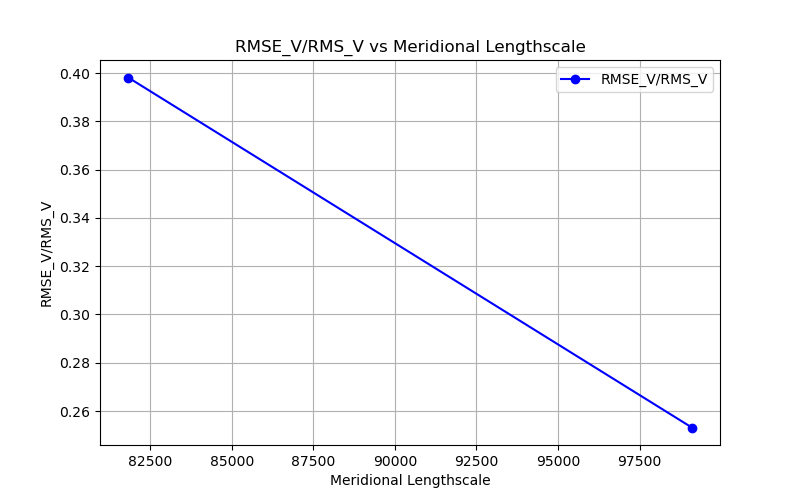
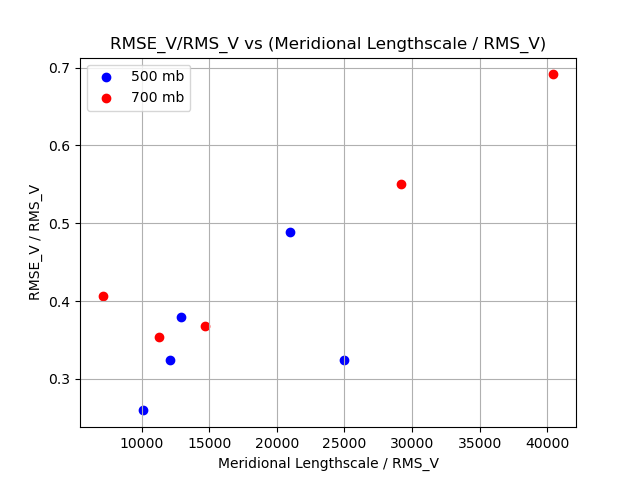
clean

diff --git a/hrrr/datas_post.py b/hrrr/datas_post.py
@@ -11,6 +11,7 @@ from tabulate import tabulate
 from main import tools
 from collections import defaultdict
 import matplotlib.pyplot as plt
+import torch
 
 pre_file_path = f'datas/datas_pre.pkl'
 fit_file_path = f'datas/datas_fit.pkl'
@@ -21,6 +22,8 @@ with open(fit_file_path, 'rb') as f:
 filtered_fit = [
     data for data in datas_fit if tools.rmse(data, scale=1/86400).item() <= 6
 ]
+
+
 date_levels = defaultdict(set)
 for data in filtered_fit:
     date_levels[data.date].add(data.level)
@@ -42,7 +45,7 @@ with open(pre_file_path, 'wb') as f:
     pickle.dump(filtered_pre, f)
 
 
-frames = [0,3,6]
+frames = [0]
 
 grouped_data = defaultdict(list)
 for data in filtered_fit:
@@ -66,8 +69,7 @@ for data in filtered_fit:
     level_dir = os.path.join(date_dir, str(data.level))
     os.makedirs(level_dir, exist_ok=True)
 
-    # Generate and save plots
-    '''for frame_num in frames:
+    for frame_num in frames:
         indices = torch.randperm(datas_pre[0].m)
         fig = data.plot_observations(indices, frame=frame_num)
         plot_path = os.path.join(level_dir, f"scalar_plot_frame_{frame_num}.png")
@@ -84,7 +86,7 @@ for data in filtered_fit:
         fig = data.plot_vel_data(indices, frame=frame_num, color="blue")
         plot_path = os.path.join(level_dir, f"true_plot_frame_{frame_num}.png")
         fig.savefig(plot_path)
-        plt.close(fig)'''
+        plt.close(fig)
 
 # Generate LaTeX table with grouped dates
 latex_table = "\\begin{table}[ht]\n\\centering\n\\begin{tabular}{llrrrrrrr}\n\\hline\n"
@@ -106,103 +108,67 @@ with open(f"results/table.txt", "w") as f:
     f.write(latex_table)
     
 
-temporal_lengthscales = []
-rmse_rrmse_ratios = []
+zonal_lengthscales_500 = []
+rmse_u_rms_ratios_500 = []
+zonal_lengthscales_700 = []
+rmse_u_rms_ratios_700 = []
 
 for date, rows in grouped_data.items():
     for row in rows:
-        temporal_lengthscale = row[2]  # Assuming `l_1` corresponds to the temporal lengthscale
-        rmse = row[7] 
-        rms = row[6]  
+        level = row[0]
+        zonal_lengthscale = row[3]
+        rms_u = row[8]
+        rmse_u = row[9]
+        if rms_u > 0:
+            ratio_u = rmse_u / rms_u
+            scaled_lengthscale = zonal_lengthscale / rms_u 
+            if level == "500 mb":
+                zonal_lengthscales_500.append(scaled_lengthscale)
+                rmse_u_rms_ratios_500.append(ratio_u)
+            elif level == "700 mb":
+                zonal_lengthscales_700.append(scaled_lengthscale)
+                rmse_u_rms_ratios_700.append(ratio_u)
 
-        if rms > 0:  # Avoid division by zero
-            ratio = rmse / rms
-            temporal_lengthscales.append(temporal_lengthscale)
-            rmse_rrmse_ratios.append(ratio)
-
-# Convert lists to numpy arrays
-temporal_lengthscales = np.array(temporal_lengthscales)
-rmse_rrmse_ratios = np.array(rmse_rrmse_ratios)
-
-# Sort values for a smooth plot
-sorted_indices = np.argsort(temporal_lengthscales)
-temporal_lengthscales = temporal_lengthscales[sorted_indices]
-rmse_rrmse_ratios = rmse_rrmse_ratios[sorted_indices]
-
-# Plot RMSE/RRMSE ratio vs Temporal Lengthscale
-plt.figure(figsize=(8, 5))
-plt.plot(temporal_lengthscales, rmse_rrmse_ratios, marker='o', linestyle='-', color='b', label="RMSE/RMS")
-plt.xlabel("Temporal Lengthscale")
-plt.ylabel("RMSE / RMS")
-plt.title("RMSE/RMS vs Temporal Lengthscale")
-plt.grid(True)
-plt.legend()
-plt.savefig("results/rmse_vs_temporal.png")
-
-
-temporal_lengthscales = []
-rmse_rrmse_ratios = []
-
-for date, rows in grouped_data.items():
-    for row in rows:
-        temporal_lengthscale = row[3] 
-        rmse = row[9] 
-        rms = row[8]  
-
-        if rms > 0:  # Avoid division by zero
-            ratio = rmse / rms
-            temporal_lengthscales.append(temporal_lengthscale)
-            rmse_rrmse_ratios.append(ratio)
-
-# Convert lists to numpy arrays
-temporal_lengthscales = np.array(temporal_lengthscales)
-rmse_rrmse_ratios = np.array(rmse_rrmse_ratios)
-
-# Sort values for a smooth plot
-sorted_indices = np.argsort(temporal_lengthscales)
-temporal_lengthscales = temporal_lengthscales[sorted_indices]
-rmse_rrmse_ratios = rmse_rrmse_ratios[sorted_indices]
-
-# Plot RMSE/RRMSE ratio vs Temporal Lengthscale
-plt.figure(figsize=(8, 5))
-plt.plot(temporal_lengthscales, rmse_rrmse_ratios, marker='o', linestyle='-', color='b', label="RMSE_U/RMS_U")
-plt.xlabel("Zonal Lengthscale")
-plt.ylabel("RMSE_U/RMS_U")
-plt.title("RMSE_U/RMS_U vs Zonal Lengthscale")
+plt.figure()
+plt.scatter(zonal_lengthscales_500, rmse_u_rms_ratios_500, color='blue', label='500 mb')
+plt.scatter(zonal_lengthscales_700, rmse_u_rms_ratios_700, color='red', label='700 mb')
+plt.xlabel("Zonal Lengthscale / RMS_U")
+plt.ylabel("RMSE_U / RMS_U")
+plt.title("RMSE_U/RMS_U vs (Zonal Lengthscale / RMS_U)")
 plt.grid(True)
 plt.legend()
 plt.savefig("results/rmse_vs_zonal.png")
+plt.close()
 
 
-temporal_lengthscales = []
-rmse_rrmse_ratios = []
+meridional_lengthscales_500 = []
+rmse_v_rms_ratios_500 = []
+meridional_lengthscales_700 = []
+rmse_v_rms_ratios_700 = []
 
 for date, rows in grouped_data.items():
     for row in rows:
-        temporal_lengthscale = row[4]  # Assuming `l_1` corresponds to the temporal lengthscale
-        rmse = row[11] 
-        rms = row[10]  
+        level = row[0]
+        meridional_lengthscale = row[4]
+        rms_v = row[10]
+        rmse_v = row[11]
+        if rms_v > 0:
+            ratio_v = rmse_v / rms_v
+            scaled_lengthscale = meridional_lengthscale / rms_v 
+            if level == "500 mb":
+                meridional_lengthscales_500.append(scaled_lengthscale)
+                rmse_v_rms_ratios_500.append(ratio_v)
+            elif level == "700 mb":
+                meridional_lengthscales_700.append(scaled_lengthscale)
+                rmse_v_rms_ratios_700.append(ratio_v)
 
-        if rms > 0:  # Avoid division by zero
-            ratio = rmse / rms
-            temporal_lengthscales.append(temporal_lengthscale)
-            rmse_rrmse_ratios.append(ratio)
-
-# Convert lists to numpy arrays
-temporal_lengthscales = np.array(temporal_lengthscales)
-rmse_rrmse_ratios = np.array(rmse_rrmse_ratios)
-
-# Sort values for a smooth plot
-sorted_indices = np.argsort(temporal_lengthscales)
-temporal_lengthscales = temporal_lengthscales[sorted_indices]
-rmse_rrmse_ratios = rmse_rrmse_ratios[sorted_indices]
-
-# Plot RMSE/RRMSE ratio vs Temporal Lengthscale
-plt.figure(figsize=(8, 5))
-plt.plot(temporal_lengthscales, rmse_rrmse_ratios, marker='o', linestyle='-', color='b', label="RMSE_V/RMS_V")
-plt.xlabel("Meridional Lengthscale")
-plt.ylabel("RMSE_V/RMS_V")
-plt.title("RMSE_V/RMS_V vs Meridional Lengthscale")
+plt.figure()
+plt.scatter(meridional_lengthscales_500, rmse_v_rms_ratios_500, color='blue', label='500 mb')
+plt.scatter(meridional_lengthscales_700, rmse_v_rms_ratios_700, color='red', label='700 mb')
+plt.xlabel("Meridional Lengthscale / RMS_V")
+plt.ylabel("RMSE_V / RMS_V")
+plt.title("RMSE_V/RMS_V vs (Meridional Lengthscale / RMS_V)")
 plt.grid(True)
 plt.legend()
 plt.savefig("results/rmse_vs_meridional.png")
+plt.close()

diff --git a/main/get_data.py b/main/get_data.py
@@ -9,7 +9,7 @@ from . import tools
 
 geo = ccrs.Geostationary(central_longitude=-137.0, satellite_height=35786023.0)
 
-def hrrr(date, level, hours, extent):
+def hrrr(date, level, hours, extent, factor):
     paths = []
     time_list = tools.generate_time_ranges(date, minutes = 60, hours = hours)
     total_times = len(time_list)
@@ -29,7 +29,7 @@ def hrrr(date, level, hours, extent):
     
     data = data.assign_coords(x=("x",  grid[0,:,0]))
     data = data.assign_coords(y=("y",  grid[:,0,1]))
-    data = data.isel(y=slice(None, None, 11), x=slice(None, None, 11))
+    data = data.isel(y=slice(None, None, factor), x=slice(None, None, factor))
 
     
     (l,d) = tools.Lambert_proj.transform_point(extent[0],extent[2],ccrs.Geodetic())
@@ -53,7 +53,7 @@ def hrrr(date, level, hours, extent):
 
 
 
-def goes(date, minutes, hours, band, extent):
+def goes(date, minutes, hours, band, extent, factor):
     data_sets = []
     time_list = tools.generate_time_ranges(date, minutes, hours)
     total_times = len(time_list)
@@ -69,7 +69,7 @@ def goes(date, minutes, hours, band, extent):
     data = xr.concat(data_sets, dim="time")
     data = data[[band,"goes_imager_projection"]]
     data = data.dropna(dim = "x")
-    data = data.isel(y=slice(None, None, 14), x=slice(None, None, 14))
+    data = data.isel(y=slice(None, None, factor), x=slice(None, None, factor))
     
     T = torch.linspace(0, hours/24, total_times)
     

diff --git a/hrrr/datas_pre.py b/hrrr/datas_pre.py
@@ -6,12 +6,9 @@ sys.path.append(os.path.abspath(os.path.join(os.path.dirname(__file__), "..")))
 import pickle
 from main import get_data, model, tools
 
-
-sat = "hrrr"
 levels = ["500 mb", "700 mb"]
-extent =[-96, -79, 30, 37]
-dates = ["2024-08-18"]
-
+extent =[-96, -77.5, 26.5, 37]
+dates = ["2024-06-23", "2024-07-21", "2024-08-18", "2024-09-30", "2024-10-11"]
 file_path = f'datas/datas_pre.pkl'
 
 if os.path.exists(file_path):
@@ -29,15 +26,14 @@ for date in dates:
         continue 
     
     for level in levels:
-        print("getting")
-        T, XY, Z, XY_UV = get_data.hrrr(date=date, level=level, hours=6, extent=extent)
+        T, XY, Z, XY_UV = get_data.hrrr(date=date, level=level, hours=6, extent=extent, factor = 9)
         data_entry = model.data(T, XY, Z, XY_UV)
         data_entry.extent = extent
         data_entry.date = date
         data_entry.level = level
         new_datas.append(data_entry)
-        print("done")
 
+print(new_datas[0].m)
 if new_datas:
     existing_datas.extend(new_datas)
     with open(file_path, 'wb') as f:

diff --git a/main/optimize.py b/main/optimize.py
@@ -75,7 +75,7 @@ def fl_vecchia(data, num_epochs=100):
         
         
     optimizer = torch.optim.AdamW([
-        {'params': flow.parameters(), 'lr':  1e-2, "weight_decay":1},
+        {'params': flow.parameters(), 'lr':  1e-2, "weight_decay":0.1},
         {'params': gp.kernel.base_kernel.parameters(), 'lr': 0.1},
         ])
         
@@ -97,10 +97,10 @@ def fl_vecchia(data, num_epochs=100):
                 
                 loss = 0
                 for i in range(1,data.n):
-                    j = max(0, i-1)
+                    j = max(0, i-2)
                     with torch.no_grad():
                         points0 = torch.cat(points[j:i]).cuda()
-                        Z0 = torch.cat(Z[j:i]).reshape(-1).view(-1).cuda()
+                        Z0 = torch.cat(Z[j:i]).reshape(-1).cuda()
                         gp.set_train_data(points0, Z0, strict=False)                    
                         gp.eval()
                         gp.likelihood.eval()

diff --git a/main/tools.py b/main/tools.py
@@ -156,27 +156,3 @@ def rmse_V(data, scale=1, mag=1):
     mean_rmse = torch.stack(errors).mean()
 
     return mean_rmse
-
-
-def point_sampling(points, min_dist, max_samples=1000):
-    n = points.shape[0]
-    perm = torch.randperm(n)  
-    chosen = [perm[0]]  
-    idx = 1
-
-    while idx < n and len(chosen) < max_samples:
-        candidate_idx = perm[idx]
-        candidate = points[candidate_idx]
-
-        # Get selected points
-        chosen_points = points[torch.tensor(chosen)]
-
-        # Check if candidate satisfies min_dist constraint
-        dists = torch.norm(candidate - chosen_points, dim=1)
-        
-        if torch.all(dists >= min_dist):
-            chosen.append(candidate_idx)
-
-        idx += 1  # Move to the next candidate
-
-    return torch.tensor(chosen)

diff --git a/hrrr/datas_fit.py b/hrrr/datas_fit.py
@@ -28,7 +28,7 @@ new_datas = [data for data in datas_pre if data.date not in fitted_dates]
 if not new_datas:
     print("No new data to fit.")
 else:
-    indices = torch.randperm(datas_pre[0].m)[:1600]
+    indices = torch.randperm(datas_pre[0].m)
 
     for data in new_datas:
         data.indices = indices
